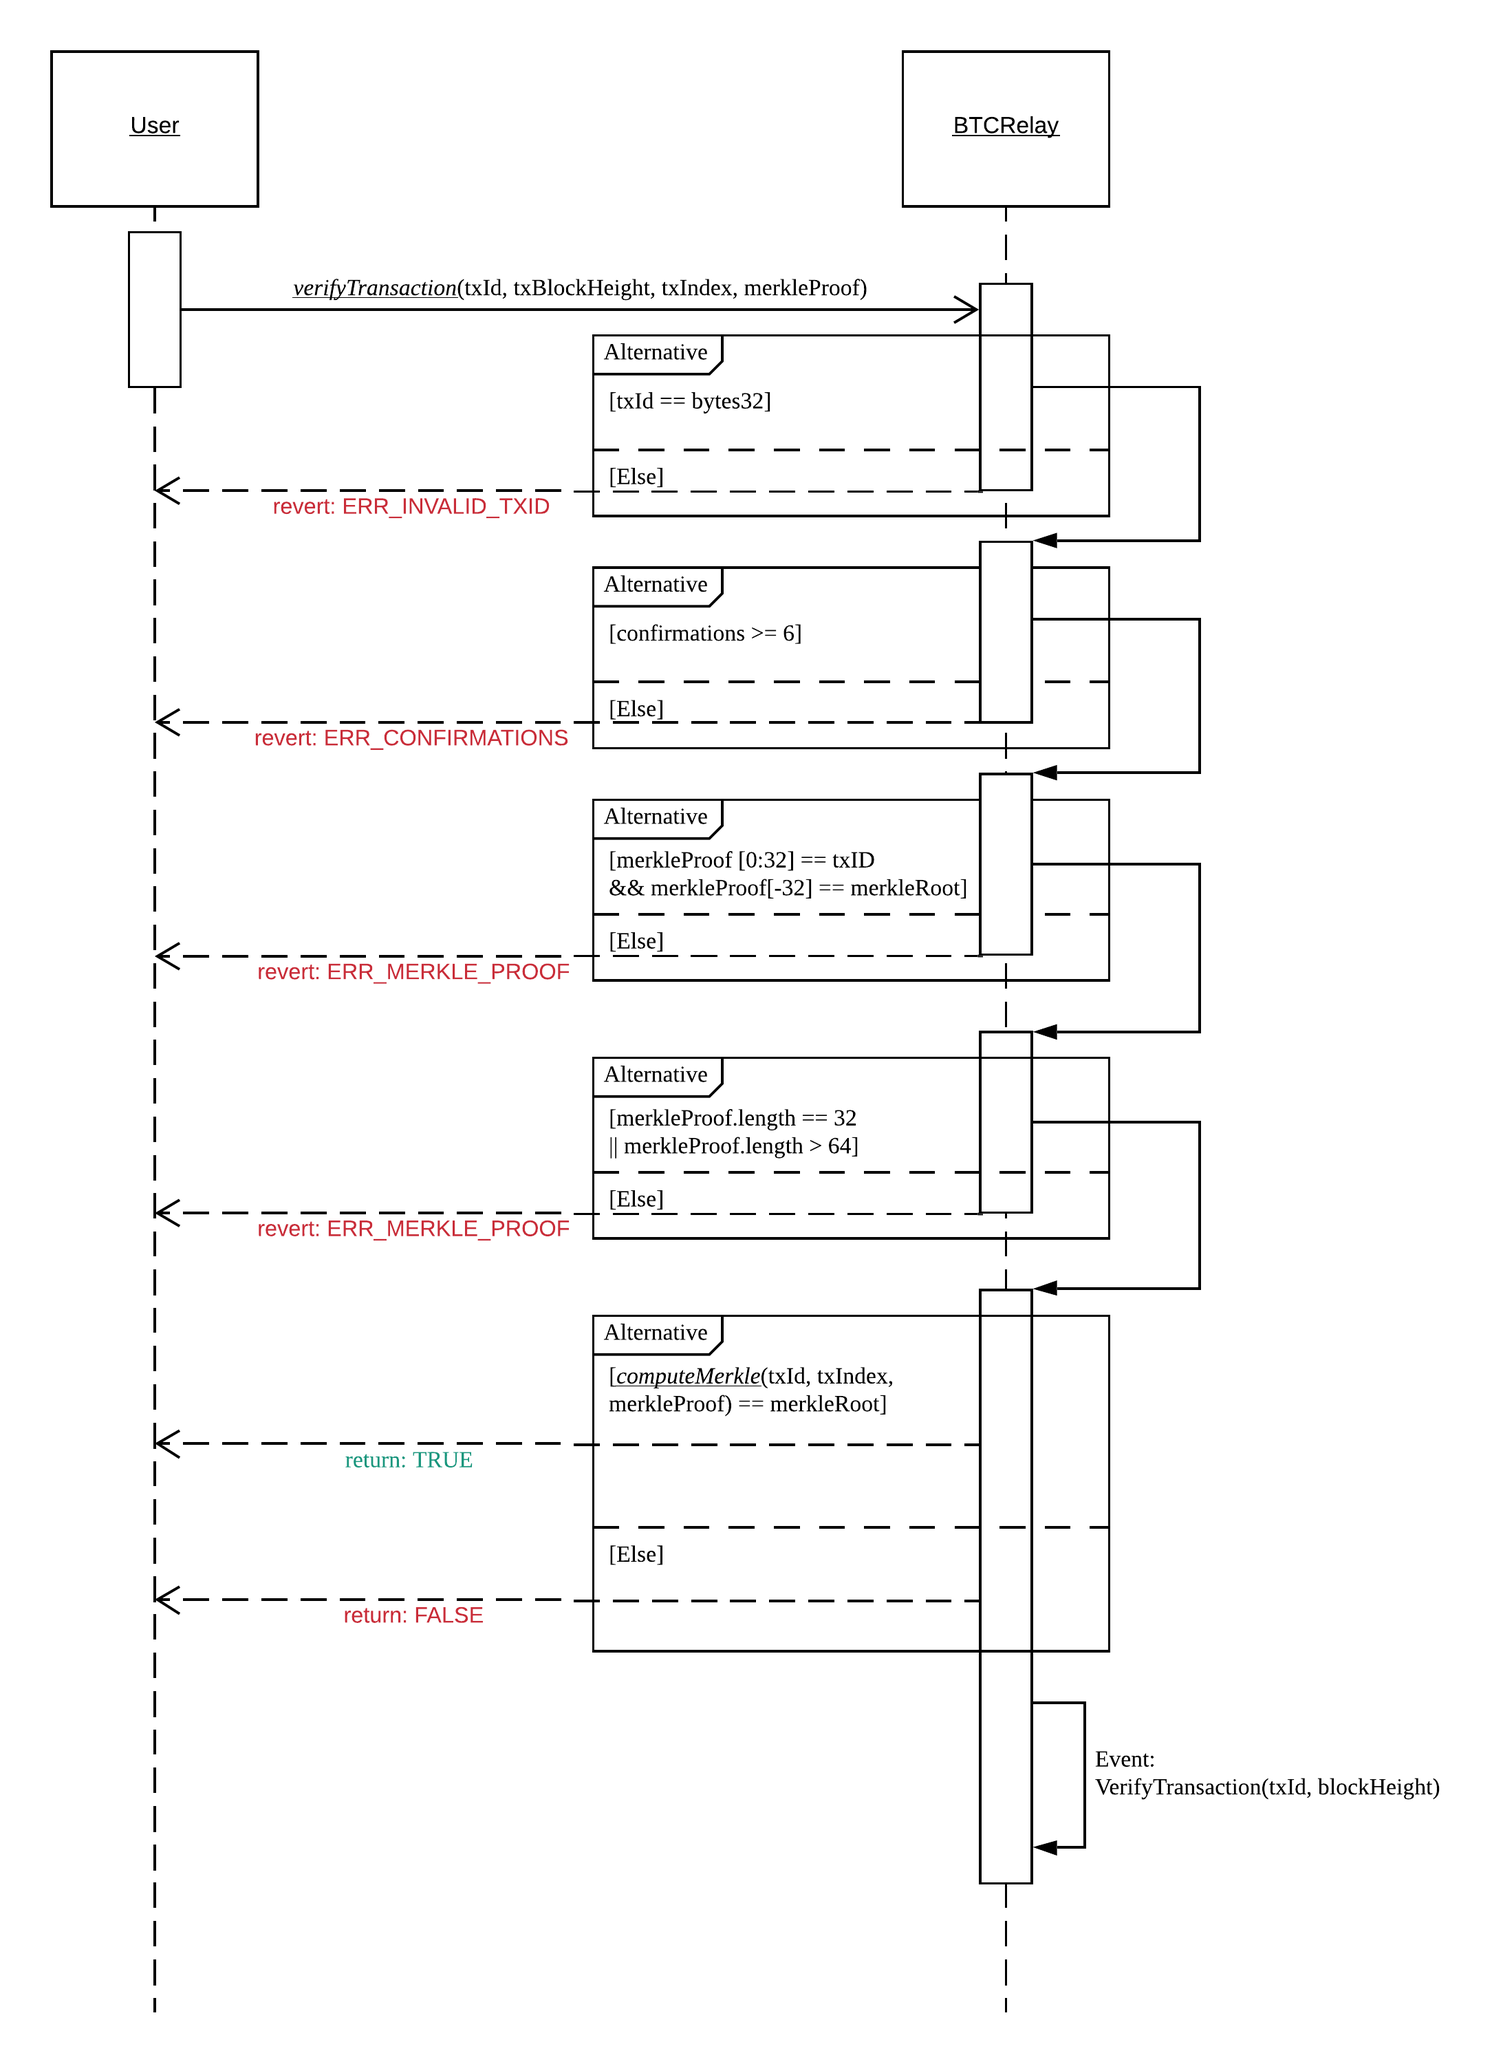
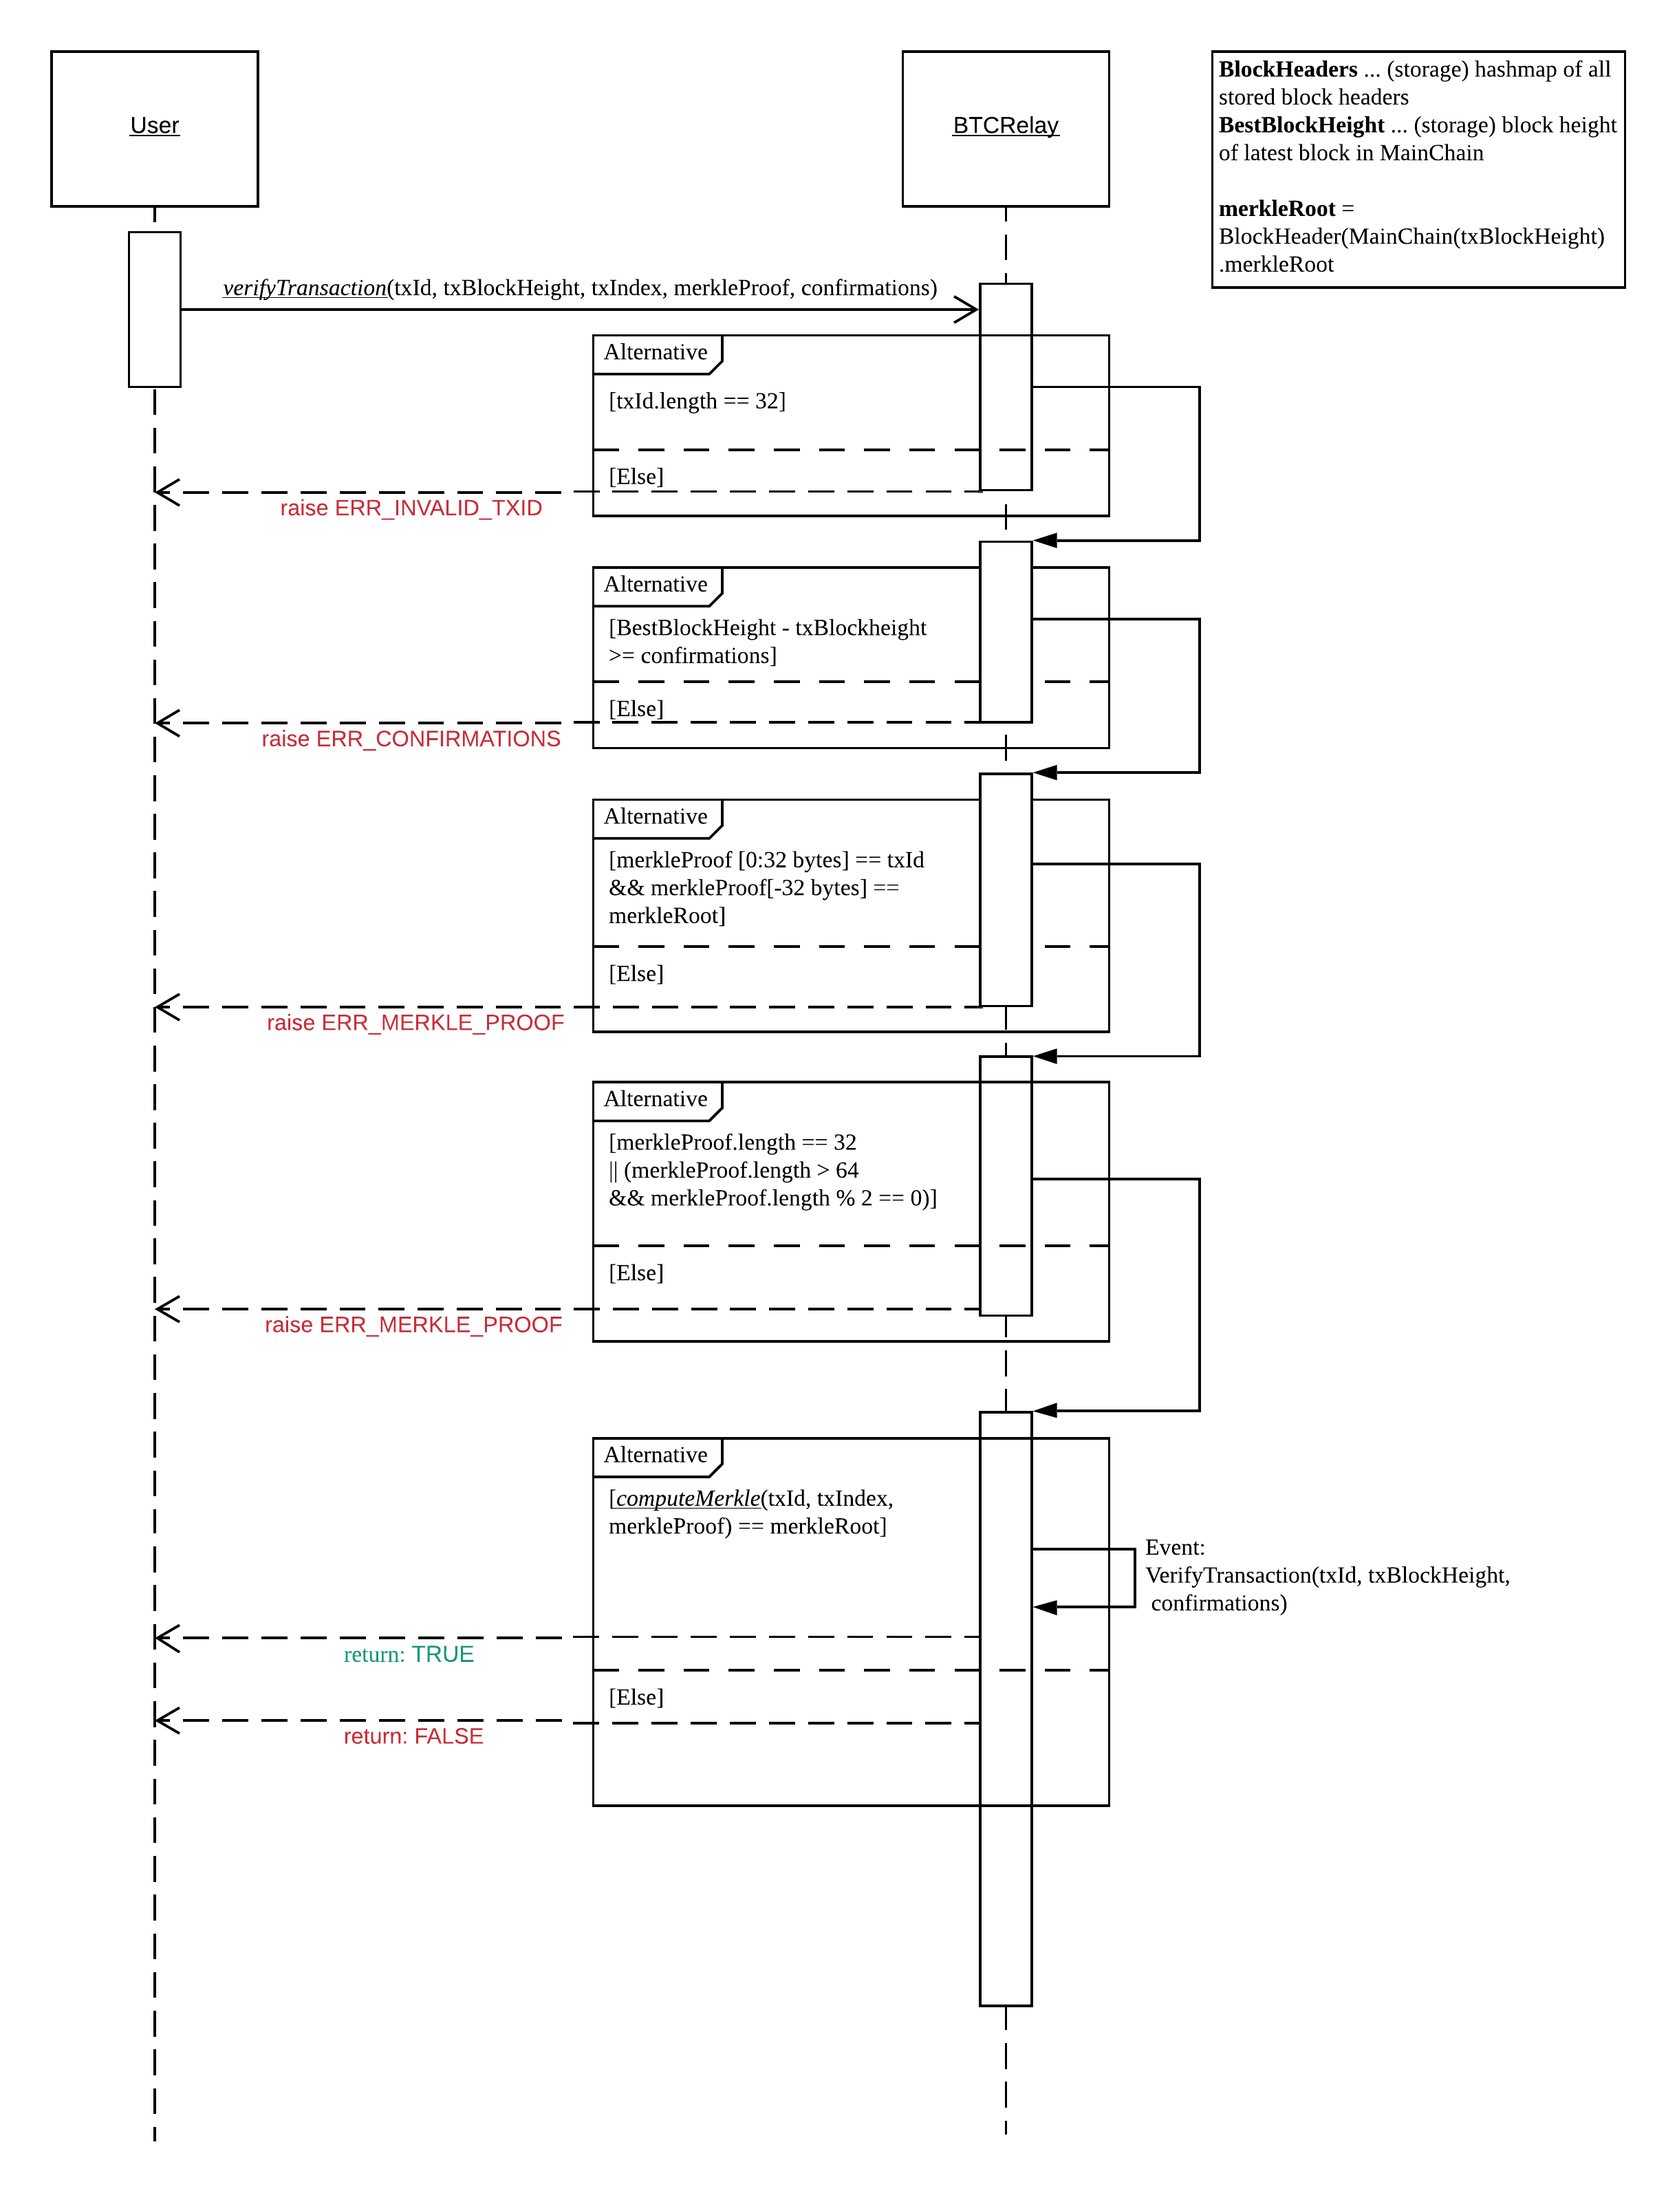
Updated verifyBlockHeader and verifyTransaction sequence diagrams

diff --git a/btcrelay-spec/docs/source/spec/functions.rst b/btcrelay-spec/docs/source/spec/functions.rst
@@ -335,7 +335,7 @@ Specification
 
 ::
 
-  fn verifyTransaction(origin, txId: T::Hash, txBlockHeight: U256, txIndex: u64, merkleProof: String, confirmations: u64) -> Result {...}
+  fn verifyTransaction(origin, txId: T::Hash, txBlockHeight: U256, txIndex: u64, merkleProof: String, confirmations: U256) -> Result {...}
 
 
 Function Sequence
@@ -346,15 +346,15 @@ The ``verifyTransaction`` function follows the function sequence below:
 
 1. Check that ``txId`` is 32 bytes long. Raise ``ERR_INVALID_FORK_ID`` error if this check fails. 
 
-2. Check that the current ``BestBlockHeight`` exceeds ``blockHeight`` by the specified number of ``confirmation``. Raise ``ERR_CONFIRMATIONS`` if this check fails. 
+2. Check that the current ``BestBlockHeight`` exceeds ``txBlockHeight`` by the specified number of ``confirmation``. Raise ``ERR_CONFIRMATIONS`` if this check fails. 
 
-3. Extract the block header from ``BlockHeaders`` using the ``blockHash`` tracked in ``MainChain`` at the passed ``blockHeight``.    
+4. Extract the block header from ``BlockHeaders`` using the ``blockHash`` tracked in ``MainChain`` at the passed ``txBlockHeight``.    
 
-3. Check that the first 32 bytes of ``merkleProof`` are equal to the ``txId`` and the last 32 bytes are equal to the ``merkleRoot`` of the specified block header. Also check that the ``merkleProof`` size is either exactly 32 bytes, or is 64 bytes or more and a power of 2. Raise ``ERR_MERKLE_PROOF`` error if one of these checks fails.
+5. Check that the first 32 bytes of ``merkleProof`` are equal to the ``txId`` and the last 32 bytes are equal to the ``merkleRoot`` of the specified block header. Also check that the ``merkleProof`` size is either exactly 32 bytes, or is 64 bytes or more and a power of 2. Raise ``ERR_MERKLE_PROOF`` error if one of these checks fails.
 
-4. Call :ref:`computeMerkle` passing ``txId``, ``txIndex`` and ``merkleProof`` as parameters. 
+6. Call :ref:`computeMerkle` passing ``txId``, ``txIndex`` and ``merkleProof`` as parameters. 
 
-  a. If this call returns the ``merkleRoot``, emit a ``VerifyTransaction(txId, blockHeight, confirmations)`` event and return ``True``.
+  a. If this call returns the ``merkleRoot``, emit a ``VerifyTransaction(txId, txBlockHeight, confirmations)`` event and return ``True``.
   
   b. Otherwise return ``False``. 
 
